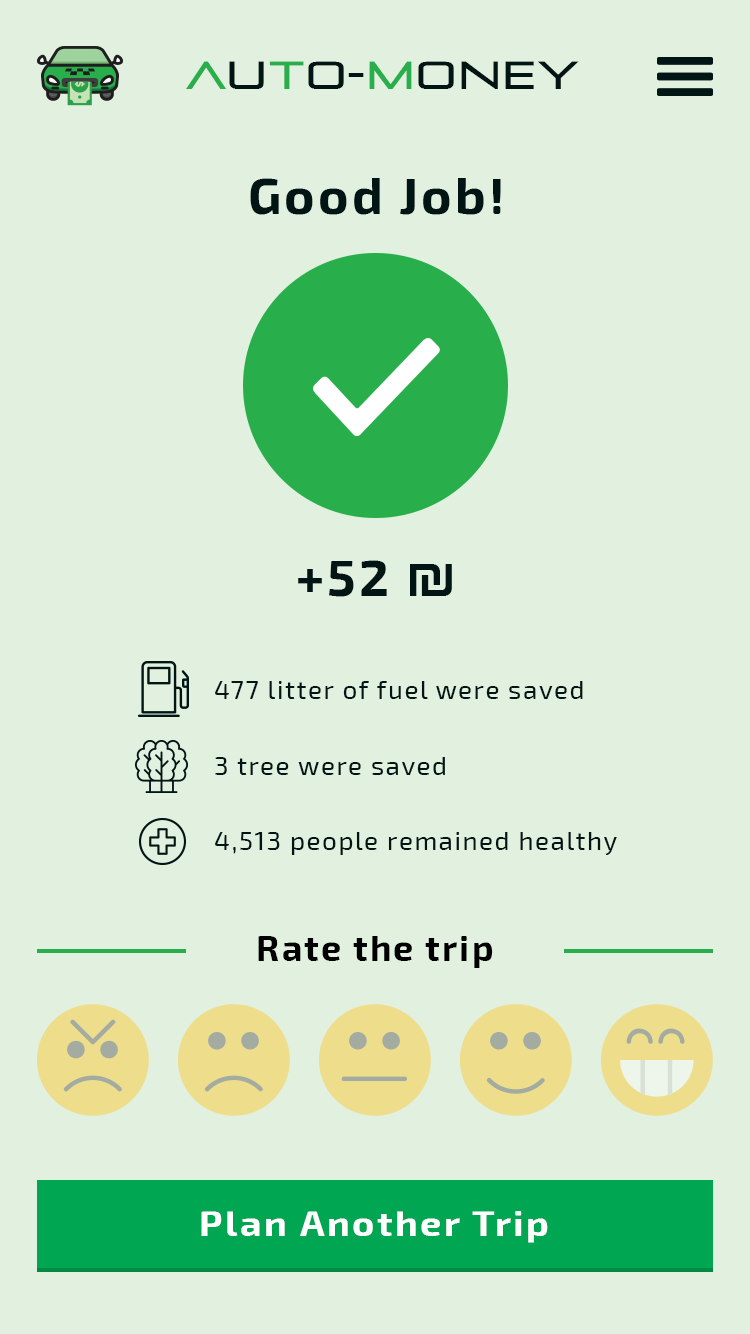
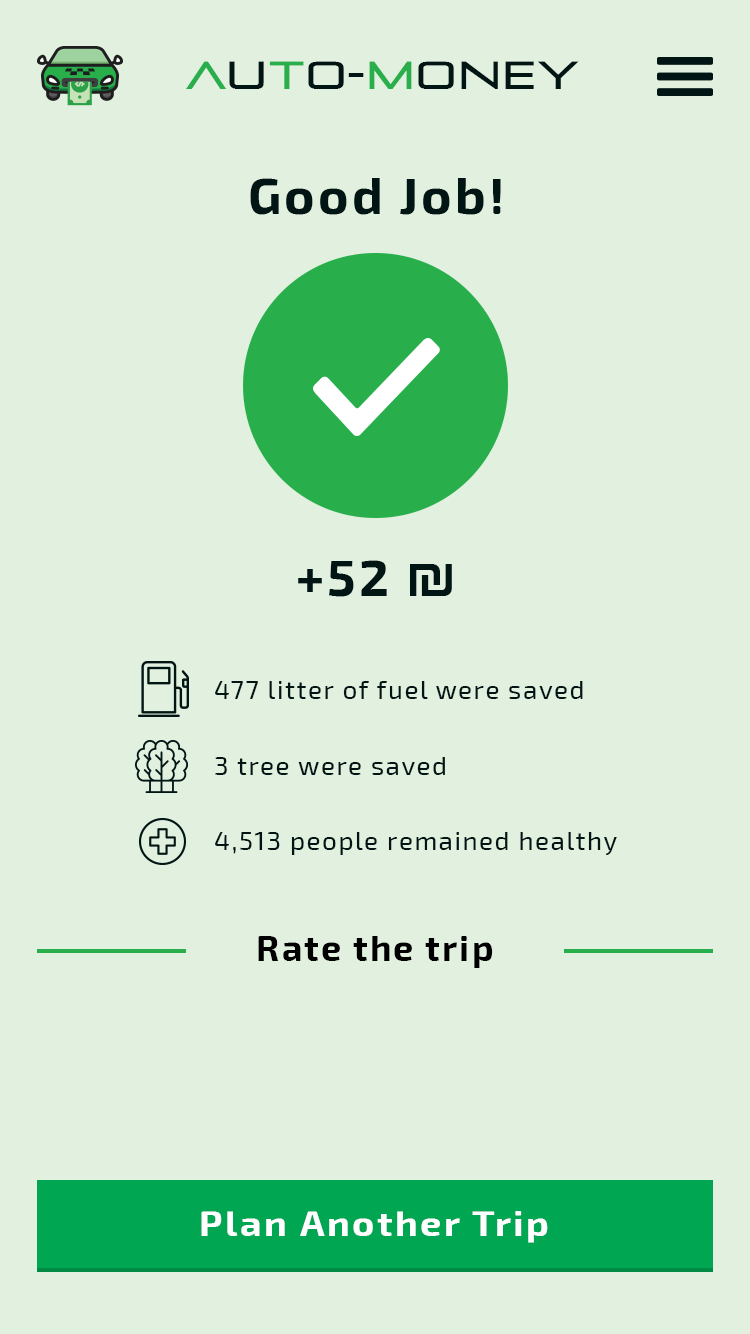
Thank you screen done

diff --git a/index.js b/index.js
@@ -55,16 +55,28 @@ document.querySelectorAll('#different-trip').forEach(function(e) {
     });
 });
 
-document.querySelectorAll('#start').forEach(function(e) {
-    e.addEventListener('click', function(e) {
-        goToScreen(screens.liveTracking);
+document.querySelector('#start').addEventListener('click', function(e) {
+    goToScreen(screens.liveTracking);
 
-        setTimeout(function() {
-            goToScreen(screens.thankYou);
-        }, 7000);
-    });
+    setTimeout(function() {
+        goToScreen(screens.thankYou);
+    }, 7000);
 });
 
 document.querySelector('#toggle-active').addEventListener('click', function(e) {
     document.getElementById('directions').classList.toggle('active');
+});
+
+document.querySelectorAll('.rating').forEach(function(e) {
+    e.addEventListener('click', function(e) {
+        document.querySelectorAll('.rating').forEach(function(e) {
+            e.classList.remove('selected');
+        });
+
+        e.currentTarget.classList.toggle('selected');
+    });
+});
+
+document.querySelector('#plan-another-trip').addEventListener('click', function(e) {
+    goToScreen(screens.main);
 });

diff --git a/index.css b/index.css
@@ -186,3 +186,57 @@ body::before {
 #directions.active #toggle-active {
     transform: rotate(180deg);
 }
+
+/* Thank You Screen Elements */
+#rate {
+    opacity: 1;
+    bottom: 16.4167916042%;
+    left: 4.93333333333%;
+    width: 90.1333333333%;
+    height: 8.39580209895%;
+}
+
+.rating {
+    background-repeat: no-repeat;
+    height: 100%;
+    width: 16.5680473373%;
+    background-size: contain;
+    display: inline-block;
+    position: relative;
+    opacity: 0.4;
+}
+
+#very-bad.rating {
+    background-image: url('images/ratings/very-bad.png');
+}
+
+#bad.rating {
+    background-image: url('images/ratings/bad.png');
+}
+
+#medium.rating {
+    background-image: url('images/ratings/medium.png');
+}
+
+#good.rating {
+    background-image: url('images/ratings/good.png');
+}
+
+#very-good.rating {
+    background-image: url('images/ratings/very-good.png');
+}
+
+.rating.selected {
+    opacity: 1;
+}
+
+.rating + .rating {
+    margin-left: 2.5942763%;
+}
+
+#plan-another-trip {
+    bottom: 4.64767616192%;
+    left: 4.93333333333%;
+    width: 90.1333333333%;
+    height: 6.89655172414%;
+}

diff --git a/index.html b/index.html
@@ -46,7 +46,16 @@
                         <div id="toggle-active"></div>
                     </div>
                 </div>
-                <div id="thank-you-screen" class="screen"></div>
+                <div id="thank-you-screen" class="screen">
+                    <div id="rate">
+                        <div id="very-bad" class="rating"></div>
+                        <div id="bad" class="rating"></div>
+                        <div id="medium" class="rating"></div>
+                        <div id="good" class="rating"></div>
+                        <div id="very-good" class="rating"></div>
+                    </div>
+                    <div id="plan-another-trip"></div>
+                </div>
             </div>
         </div>
     </body>
